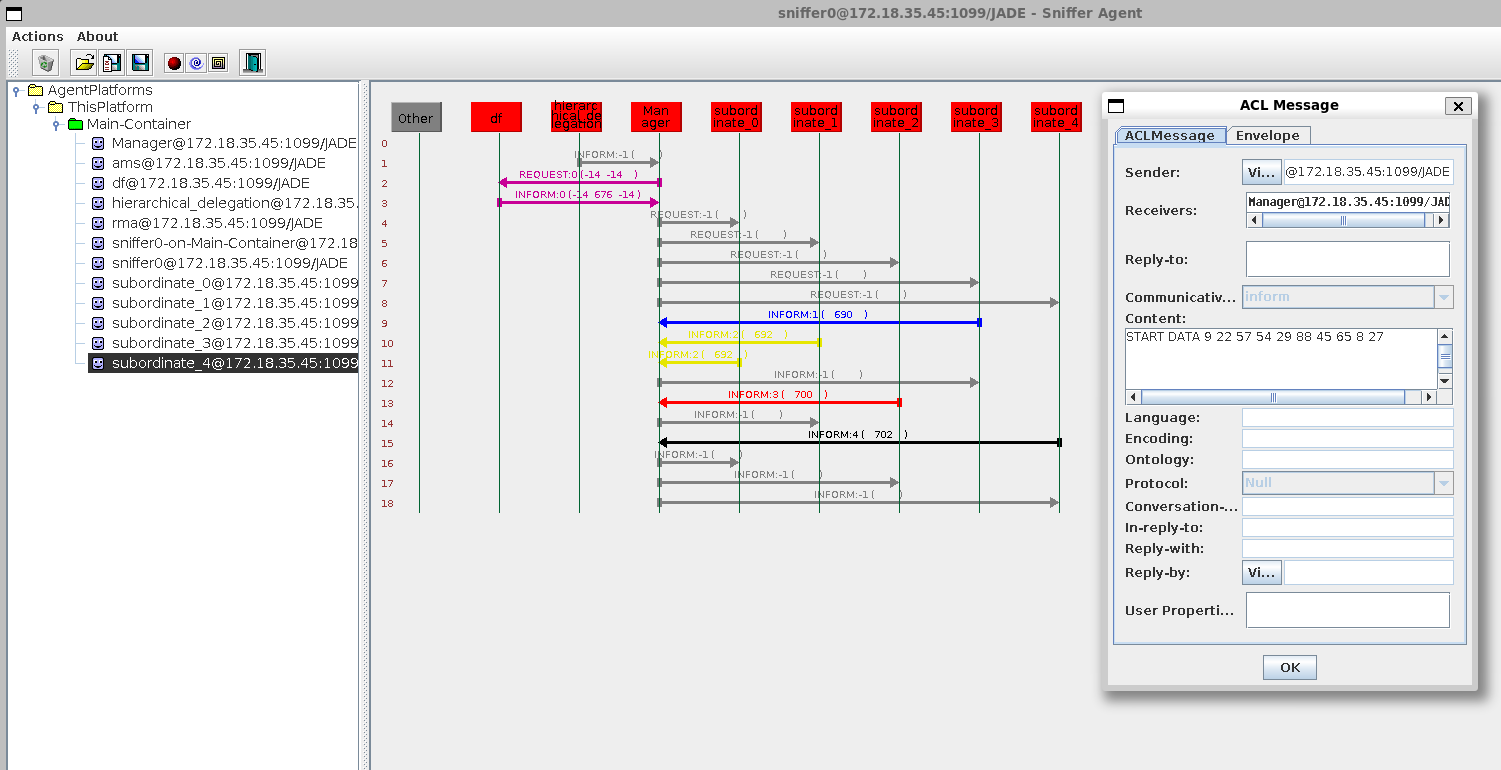
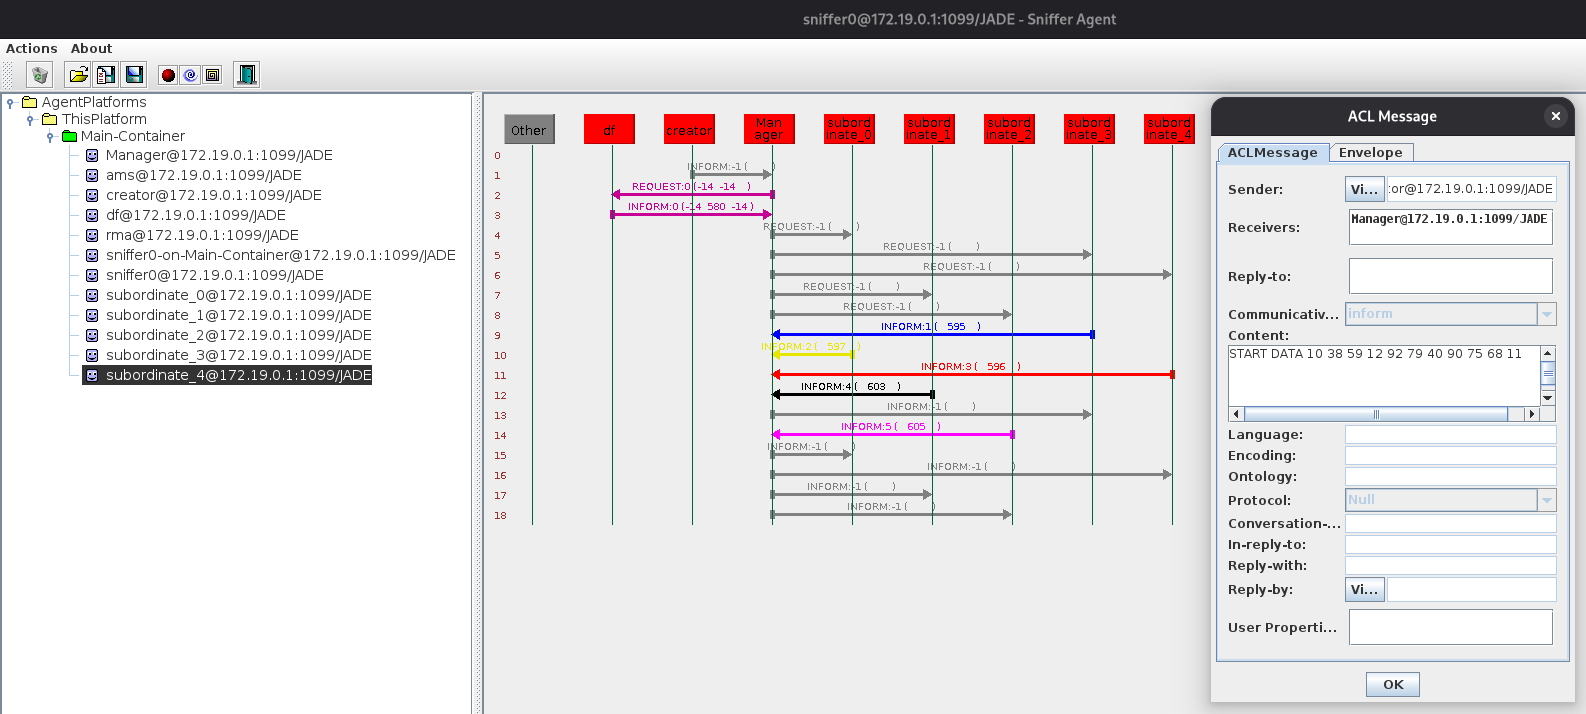
:recycle: rename App.java to Creator.java

Changed region(s): [[0.0, 0.0, 1.0, 1.0]]

diff --git a/src/main/java/hierarchical_delegation/Creator.java b/src/main/java/hierarchical_delegation/Creator.java
@@ -14,7 +14,7 @@ import jade.wrapper.AgentController;
 /**
  * Class that set the main agent and it's actions
  */
-public class App extends BaseAgent {
+public class Creator extends BaseAgent {
 
 	private static final long serialVersionUID = 1L;
 

diff --git a/README.md b/README.md
@@ -32,7 +32,7 @@ Tendo recebido o conjunto de dados e a operação a ser realizada por parte do a
 
 ## Projeto em Execução
 
-Abaixo, na *Figura 1*, é possível ver o *sniffer* apresentando todos os agentes instanciados para a correta execução do *building block*, contendo o *creator* (nomeado por "hierarchical-delegation"), o agente *manager* e todos os agentes subordinados, para além do agente *DF*.
+Abaixo, na *Figura 1*, é possível ver o *sniffer* apresentando todos os agentes instanciados para a correta execução do *building block*, contendo o *creator*, o agente *manager* e todos os agentes subordinados, para além do agente *DF*.
 
 <img src="assets/figura1.png" alt="Visualização dos agentes pelo sniffer">
 
